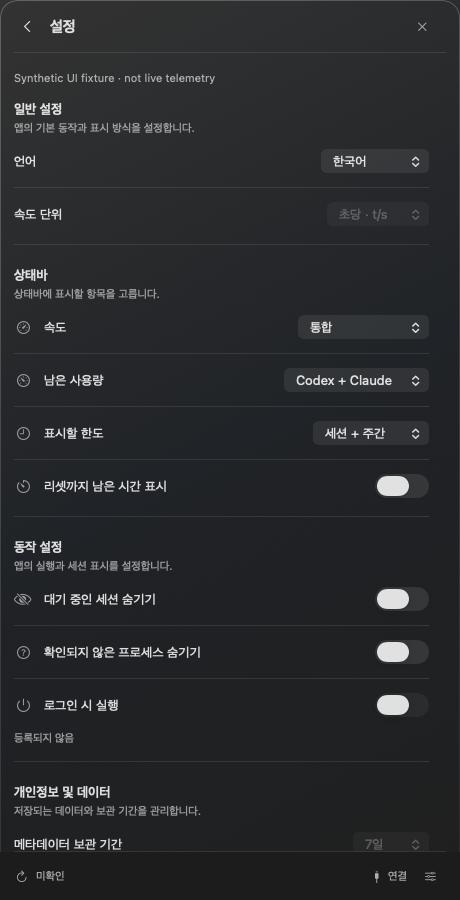
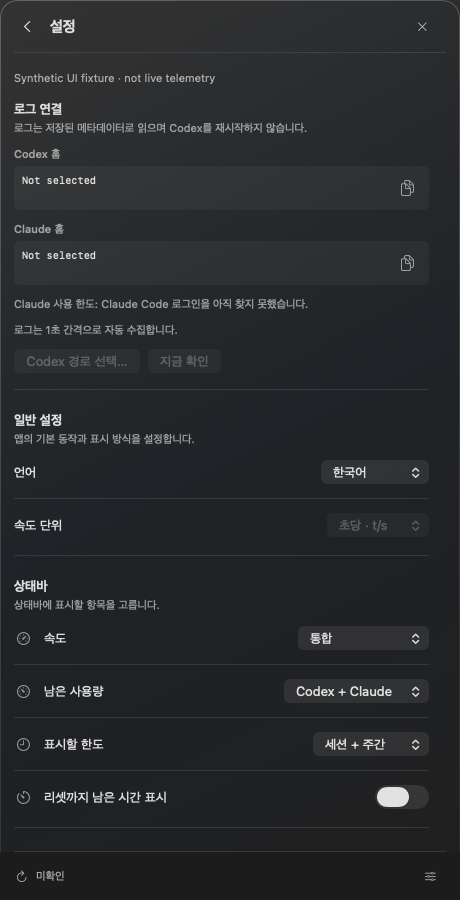
settings: merge the connection page into settings; drop the managed leftovers from docs

diff --git a/Sources/CodexHubApp/HubView.swift b/Sources/CodexHubApp/HubView.swift
@@ -28,7 +28,6 @@ struct HubView: View {
                         if let session = model.sessions.first(where: { $0.id == key }) { detail(session) }
                         else { Text(model.text("This session is no longer available.")) }
                     case .preferences: preferences
-                    case .connection: connection
                     }
                 }.frame(maxWidth: .infinity, alignment: .leading).padding(.horizontal, 14).padding(.vertical, 18)
             }.id(model.page)
@@ -77,9 +76,6 @@ struct HubView: View {
             Image(systemName: "arrow.clockwise").accessibilityHidden(true)
             Text(model.freshness).lineLimit(1)
             Spacer(minLength: 8)
-            Button { model.page = .connection } label: {
-                Label(model.text("연결"), systemImage: "cable.connector").frame(minHeight: 28)
-            }.buttonStyle(.plain)
             Button { model.page = .preferences } label: {
                 Image(systemName: "slider.horizontal.3").frame(width: 28, height: 28).contentShape(Rectangle())
             }.buttonStyle(.plain).accessibilityLabel(model.text("설정")).help(model.text("설정")).keyboardShortcut(",", modifiers: .command)
@@ -92,7 +88,6 @@ struct HubView: View {
         case .overview: model.appName
         case .detail: model.text("상세정보")
         case .preferences: model.text("설정")
-        case .connection: model.text("연결")
         }
     }
 
@@ -210,7 +205,7 @@ struct HubView: View {
                 }
                 if model.processCount == 0 {
                     Text(model.text(model.error == nil ? "실행 중인 Codex가 없습니다" : "수집 오류로 프로세스 목록을 불러오지 못했습니다")).foregroundStyle(secondary)
-                    Button(model.text("연결 확인")) { model.page = .connection; model.refresh?() }.disabled(model.busy || model.refresh == nil)
+                    Button(model.text("연결 확인")) { model.page = .preferences; model.refresh?() }.disabled(model.busy || model.refresh == nil)
                 } else if model.visibleSessions.isEmpty && model.visibleUnattached.isEmpty {
                     Text(model.text("대기 중인 항목은 설정에 따라 숨겨져 있습니다.")).font(.system(size: 11)).foregroundStyle(secondary)
                 }
@@ -259,6 +254,16 @@ struct HubView: View {
 
     private var preferences: some View {
         VStack(alignment: .leading, spacing: 22) {
+            settingsSection("Log connection", subtitle: "Logs are read as saved metadata; Codex is never restarted.") {
+                copyValue("Codex home", model.codexHome)
+                copyValue("Claude home", model.claudeHome)
+                connectionNote(model.quotas.contains { $0.provider == .claude } ? "Claude usage limits: a Claude Code login was found." : "Claude usage limits: no Claude Code login found yet.")
+                connectionNote("로그는 1초 간격으로 자동 수집합니다.")
+                HStack {
+                    Button(model.text("Codex 경로 선택…")) { model.chooseHome?() }.disabled(model.chooseHome == nil || model.busy)
+                    Button(model.text(model.checkingConnection ? "연결 확인 중…" : "지금 확인")) { model.refresh?() }.disabled(model.busy || model.refresh == nil)
+                }.buttonStyle(.bordered)
+            }
             settingsSection("General settings", subtitle: "Choose the app language and speed display.") {
                 settingsRow("Language") {
                 Picker(model.text("Language"), selection: $model.language) {
@@ -331,6 +336,14 @@ struct HubView: View {
                     Text(model.text(model.loginStatus)).font(.system(size: 11)).foregroundStyle(.secondary)
                 }
             }
+            if !model.diagnostics.isEmpty {
+                settingsSection("Collection diagnostics", subtitle: "A collection error does not mean your Codex task failed. Check the original terminal for task status.") {
+                    ForEach(Array(model.diagnostics.enumerated()), id: \.offset) { _, text in
+                        Text(model.text(text)).font(.system(size: 11)).textSelection(.enabled)
+                            .fixedSize(horizontal: false, vertical: true)
+                    }
+                }
+            }
             settingsSection("Privacy and data", subtitle: "Manage how long collected metadata is kept.") {
                 settingsRow("Metadata retention") {
                 Picker(model.text("Metadata retention"), selection: Binding(get: { model.retentionDays }, set: { model.updateRetention?($0) })) {
@@ -371,48 +384,6 @@ struct HubView: View {
             Divider().padding(.top, 4)
         }
     }
-    private var connection: some View {
-        VStack(alignment: .leading, spacing: 22) {
-            HStack(alignment: .top, spacing: 12) {
-                Image(systemName: "terminal").font(.system(size: 22)).foregroundStyle(.blue)
-                    .frame(width: 42, height: 42).background(.blue.opacity(0.12), in: RoundedRectangle(cornerRadius: 10)).accessibilityHidden(true)
-                VStack(alignment: .leading, spacing: 5) {
-                    Text(model.text("Keep your terminal.")).font(.system(size: 17, weight: .semibold))
-                    connectionNote("Logs compatibility mode observes saved metadata without restarting Codex.")
-                }
-            }
-            connectionSection("Current log location", icon: "folder", tint: .blue) {
-                copyValue("Codex home", model.codexHome)
-                copyValue("Claude home", model.claudeHome)
-                connectionNote(model.quotas.contains { $0.provider == .claude } ? "Claude usage limits: a Claude Code login was found." : "Claude usage limits: no Claude Code login found yet.")
-                connectionNote("로그는 1초 간격으로 자동 수집합니다.")
-                HStack {
-                    Button(model.text("Codex 경로 선택…")) { model.chooseHome?() }.disabled(model.chooseHome == nil || model.busy)
-                    Button(model.text(model.checkingConnection ? "연결 확인 중…" : "지금 확인")) { model.refresh?() }.disabled(model.busy || model.refresh == nil)
-                }
-            }
-            if !model.diagnostics.isEmpty {
-                connectionSection("Collection diagnostics", icon: "exclamationmark.triangle", tint: attention) {
-                    ForEach(Array(model.diagnostics.enumerated()), id: \.offset) { _, text in
-                        Text(model.text(text)).font(.system(size: 11)).textSelection(.enabled)
-                            .fixedSize(horizontal: false, vertical: true)
-                    }
-                    connectionNote("A collection error does not mean your Codex task failed. Check the original terminal for task status.")
-                }
-            }
-        }.buttonStyle(.bordered).controlSize(.regular)
-    }
-
-    private func connectionSection<Content: View>(_ title: String, icon: String, tint: Color, @ViewBuilder content: () -> Content) -> some View {
-        VStack(alignment: .leading, spacing: 10) {
-            Label { Text(model.text(title)).font(.system(size: 13, weight: .semibold)) } icon: {
-                Image(systemName: icon).foregroundStyle(tint)
-            }
-            content()
-            Divider().padding(.top, 4)
-        }.frame(maxWidth: .infinity, alignment: .leading)
-    }
-
     private func connectionNote(_ text: String) -> some View {
         Text(model.text(text)).font(.system(size: 11)).foregroundStyle(.secondary)
             .fixedSize(horizontal: false, vertical: true)

diff --git a/Sources/CodexHubApp/AppLanguage.swift b/Sources/CodexHubApp/AppLanguage.swift
@@ -25,7 +25,6 @@ enum AppLanguage: String, CaseIterable {
         "Could not load processes because collection failed.": "수집 오류로 프로세스 목록을 불러오지 못했습니다",
         "Server diagnostics do not calculate throughput.": "서버 진단 모드에서는 속도를 계산하지 않습니다",
         "Switch to tool-excluded estimate": "도구 제외 추정으로 전환",
-        "Current log location": "현재 로그 경로",
         "Codex home": "Codex 홈",
         "Claude home": "Claude 홈",
         "Claude usage limits: a Claude Code login was found.": "Claude 사용 한도: Claude Code 로그인을 확인했습니다.",
@@ -47,6 +46,9 @@ enum AppLanguage: String, CaseIterable {
         "Weekly": "주간",
         "Session": "세션",
         "Menu bar": "상태바",
+        "Log connection": "로그 연결",
+        "Logs are read as saved metadata; Codex is never restarted.": "로그는 저장된 메타데이터로 읽으며 Codex를 재시작하지 않습니다.",
+        "A collection error does not mean your Codex task failed. Check the original terminal for task status.": "수집 오류가 Codex 작업 실패를 뜻하지는 않습니다. 작업 상태는 원래 터미널에서 확인하세요.",
         "Choose what the menu bar shows.": "상태바에 표시할 항목을 고릅니다.",
         "Speed": "속도",
         "Combined": "통합",
@@ -202,11 +204,8 @@ enum AppLanguage: String, CaseIterable {
         "Clear collected metadata": "수집 메타데이터 삭제",
         "Quitting Tokloom stops monitoring, not your Codex sessions.": "Hub를 종료해도 Codex 세션은 계속 실행됩니다.",
         "Quit Tokloom": "Tokloom 종료",
-        "Keep your terminal.": "기존 터미널 그대로 사용하세요.",
-        "Logs compatibility mode observes saved metadata without restarting Codex.": "로그 방식은 Codex를 재시작하지 않고 저장된 메타데이터를 관측합니다.",
         "Collection diagnostics": "수집 진단",
         "Experimental terminal command": "실험 기능 실행 명령",
-        "A collection error does not mean your Codex task failed. Check the original terminal for task status.": "수집 오류가 Codex 작업 실패를 뜻하지는 않습니다. 작업 상태는 원래 터미널에서 확인하세요.",
         "Working…": "처리 중…",
         "Copy": "복사",
         "Controller PID": "제어 프로세스 PID",

diff --git a/Tests/CodexHubAppTests/FixtureHarness.swift b/Tests/CodexHubAppTests/FixtureHarness.swift
@@ -63,16 +63,9 @@ import CodexHubCollector
         model.page = .preferences
         try capture(model, "preferences", output, dark: false)
         try capture(model, "preferences-full", output, dark: true, height: 900)
-        model.page = .connection
         model.diagnostics = ["Fixture: logs directory readable", "No provider calls performed"]
-        try capture(model, "connection", output, dark: false)
-        try capture(model, "connection-full", output, dark: false, height: 900)
-        model.language = .english
-        try capture(model, "readme-connection-en", output, dark: false, height: 900)
-        let readme_connection_en_language = model.language
-        model.language = .korean
-        try capture(model, "readme-connection-ko", output, dark: false, height: 900)
-        model.language = readme_connection_en_language
+        try capture(model, "preferences-diagnostics", output, dark: false, height: 900)
+        model.diagnostics = []
         model.language = .korean
         model.page = .overview
         try set([a,b], verified: [a.key])

diff --git a/Sources/CodexHubApp/Presentation.swift b/Sources/CodexHubApp/Presentation.swift
@@ -101,7 +101,7 @@ struct UsageHistoryPoint: Identifiable, Equatable {
     var id: Double { time }
 }
 
-enum HubPage: Hashable { case overview, detail(ThreadKey), preferences, connection }
+enum HubPage: Hashable { case overview, detail(ThreadKey), preferences }
 
 /// What the menu bar shows for speed; the per-provider rates split the combined one.
 enum MenuSpeed: String, CaseIterable {

diff --git a/README.md b/README.md
@@ -43,15 +43,10 @@ Tokloom is a native menu bar monitor for developers using Codex or Claude Code. 
     </td>
   </tr>
   <tr>
-    <td width="50%" align="center" valign="top">
-      <h3>03 · Keep your terminal</h3>
-      <p>Inspect the Codex and Claude Code log paths and collection diagnostics.<br />Codex and Claude Code, side by side.</p>
-      <a href="docs/images/connection-en.png"><img src="docs/images/connection-en.png" alt="Tokloom connection page with log location and diagnostics" width="340" /></a>
-    </td>
-    <td width="50%" align="center" valign="top">
-      <h3>04 · Make it yours</h3>
-      <p>Choose your language, speed display and startup<br />behavior, and manage metadata retention.</p>
-      <a href="docs/images/settings-en.png"><img src="docs/images/settings-en.png" alt="Tokloom settings for language, measurement, startup and data retention" width="340" /></a>
+    <td colspan="2" align="center" valign="top">
+      <h3>03 · Connection and settings</h3>
+      <p>The Codex and Claude Code log paths, language, speed display, menu bar items,<br />startup behavior and metadata retention, in one place.</p>
+      <a href="docs/images/settings-en.png"><img src="docs/images/settings-en.png" alt="Tokloom settings with the log connection, language, menu bar items, startup and data retention" width="340" /></a>
     </td>
   </tr>
 </table>
@@ -75,7 +70,7 @@ open '.build/Tokloom.app'
 
 Distribution bundles are arm64 Release builds with local ad-hoc signatures. They are not signed with an Apple distribution certificate or notarized. The first SwiftPM build may download pinned test dependencies.
 
-Choose your Codex home in **Connection**. Tokloom starts with the home that most running Codex terminals use (a process without `CODEX_HOME` uses `~/.codex`), or `~/.codex` when none runs. The `CODEX_HOME` of the shell that launched Tokloom is ignored; choose another home here if you need one, and your choice is kept. Tokloom reads original logs without modifying them or restarting Codex, polling once per second.
+Choose your Codex home in **Settings → Log connection**. Tokloom starts with the home that most running Codex terminals use (a process without `CODEX_HOME` uses `~/.codex`), or `~/.codex` when none runs. The `CODEX_HOME` of the shell that launched Tokloom is ignored; choose another home here if you need one, and your choice is kept. Tokloom reads original logs without modifying them or restarting Codex, polling once per second.
 
 Only live processes appear in the list. Sessions are matched using PID, process start time, and exact log file identity. Unmatched processes remain in an identifying state; exited processes are not listed as historical sessions. Quitting Tokloom does not stop Codex sessions.
 
@@ -144,11 +139,11 @@ Samples are saved in a protected SQLite metadata database. On app restart or reb
 
 Clearing collected metadata also clears chart history. Original Codex logs remain intact. Empty or unsaved history from older versions affected by the persistence bug cannot be recovered.
 
-## Settings and connection
+## Settings
 
-**Settings** provides language, display unit, what the menu bar shows (speed: combined, by provider, both or hidden; remaining usage: Codex, Claude, both or hidden; the 5-hour window, the weekly window or both; optionally the time until reset), hide-idle behavior, start at login, metadata retention/deletion, and quit. Login startup changes only when the user toggles it.
+**Settings** starts with **Log connection** (Codex home selection and copying, an immediate check, the Claude Code home with whether a Claude Code login was found, and collection diagnostics when there are any), then provides language, display unit, what the menu bar shows (speed: combined, by provider, both or hidden; remaining usage: Codex, Claude, both or hidden; the 5-hour window, the weekly window or both; optionally the time until reset), hide-idle behavior, start at login, metadata retention/deletion, and quit. Login startup changes only when the user toggles it.
 
-**Connection** provides log-path selection/copying, an immediate connection check, the Claude Code home with whether a Claude Code login was found, and collection diagnostics. Paths have individual copy buttons.
+Paths have individual copy buttons.
 
 On macOS 26+, supported buttons use native Glass styling. Older systems use bordered controls; Reduce Transparency uses an opaque system background. Right-click the menu bar item to open or quit the app.
 
